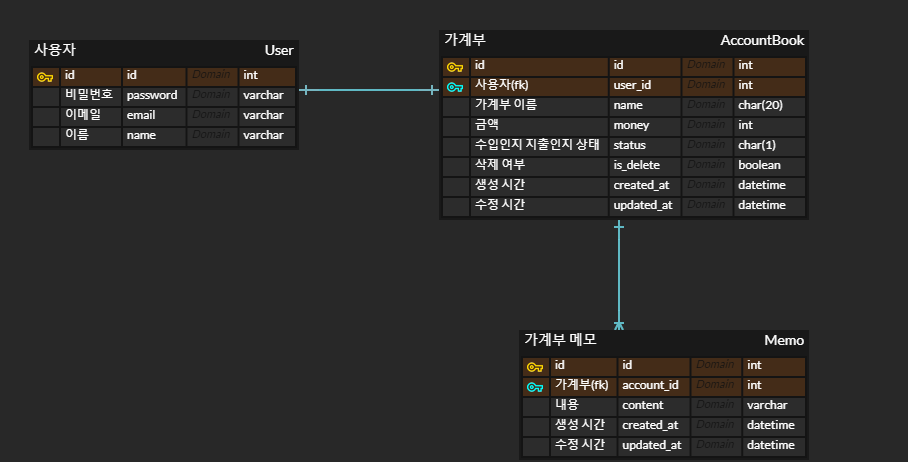
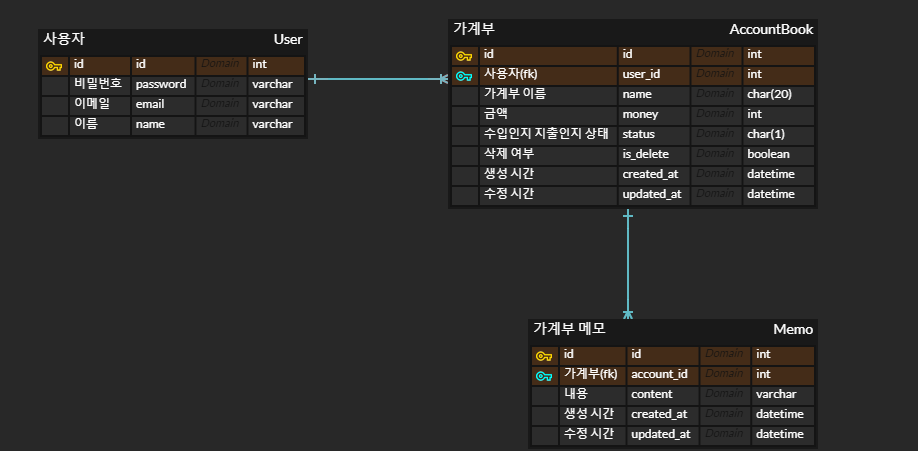
!squash README.md(docs) 수정
docs(README.md): user api 수정 및 AccountBook model field 수정

1. user api url 수정
2. AccountBook model user oneToMany 로 수정

docs(README.md): erd image 수정

Changed region(s): [[0.0308, 0.031, 0.8943, 0.714], [0.5551, 0.714, 0.8943, 0.9933]]

diff --git a/README.md b/README.md
@@ -23,10 +23,10 @@
 ### API
 
 - Functiona
-    - /api/signup: 회원가입
-    - /api/login: 로그인
-    - /api/logout: 로그아웃
-
+    - /user/signup: 회원가입
+    - /user/jwt-auth: 로그인
+    - /user/jwt-verify: 토큰이 유효한지 확인함
+    - /user/jwt-refresh: 만료 시간이 갱신된 새로운 토큰을 얻음
 - 제약사항
     - 토큰 인증 방식
 
@@ -36,7 +36,7 @@
 
 - AccountBook(가계부)
     - **id(pk)**
-    - user(fk - OneToOne): User 모델과 1:1 관계
+    - user(fk - oneToMany): User 모델과 1:1 관계
     - name: 가계부 이름
     - money: 금액
     - status: 수입/지출 상태
